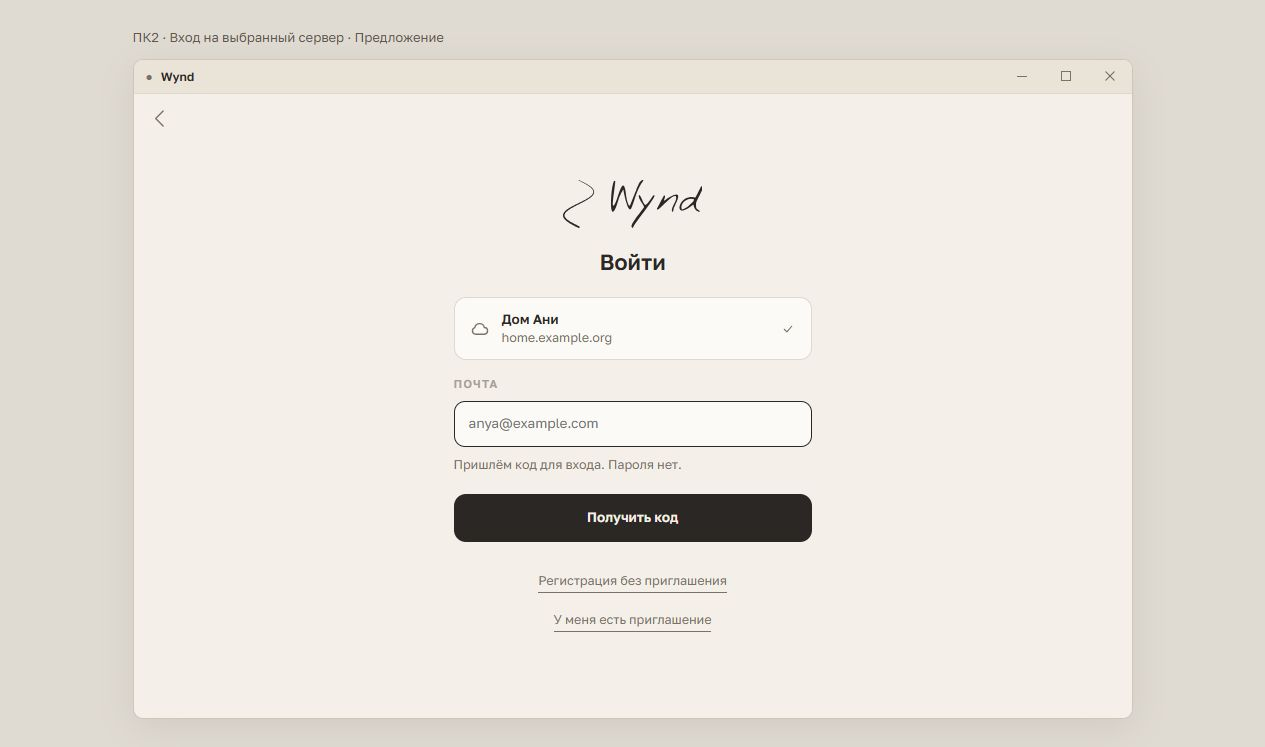
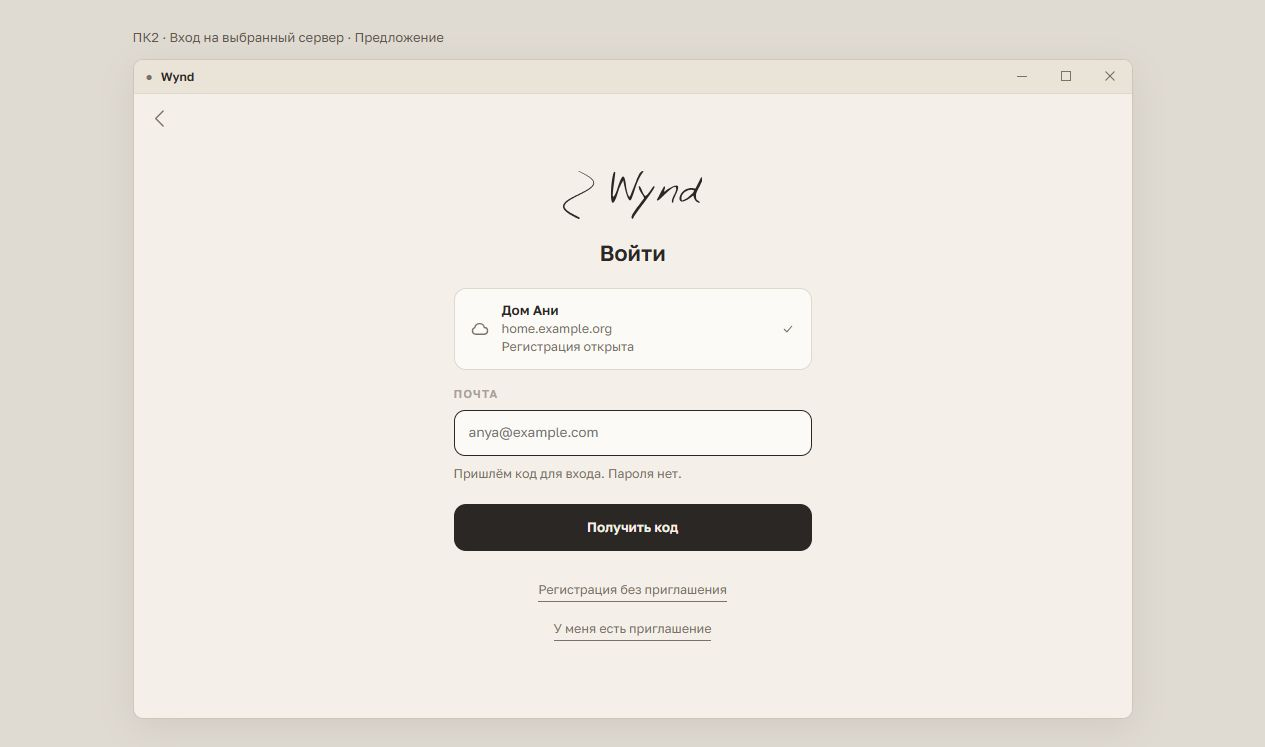
План 55, ПК2: режим регистрации в карточке и условные ссылки входа.

diff --git a/docs/visual/desktop-login.html b/docs/visual/desktop-login.html
@@ -4,7 +4,7 @@
 <meta charset="utf-8">
 <meta name="viewport" content="width=device-width,initial-scale=1">
 <title>Wynd для компьютера — ПК2, вход</title>
-<!-- Предложение по плану 55. Настоящие компоненты Wynd UI, отрендеренные Vite/Svelte. Исходник: ../plans/55-desktop-login-frame.svelte.txt. -->
+<!-- Предложение по плану 55. Настоящие компоненты Wynd UI. Исходник: ../plans/55-desktop-login-frame.svelte.txt. Показана открытая регистрация. -->
 <style>
 :root { --paper: #f4f0e9; --card: #fcfaf6; --ink: #2b2724; --muted: #7a7269; --faint: #a8a096; --line: #dfd8cd; --terracotta: #af5839; --teal: #357077; --olive: #58673a; --ochre: #70571b; --plum: #7a4265; --indigo: #3c4d83; --coffee: #62452f; --slate: #3d494f; --ui: 'Golos Text', -apple-system, BlinkMacSystemFont, 'Segoe UI', Roboto, 'Helvetica Neue', Arial,
 		sans-serif; --app-max-width: 480px; --app-wide-max-width: 820px; --app-gutter: #e0dbd2; --app-gutter-dark: #161412; --mark-w: 46px; --mark-h: 69px; --empty-ink: #d6cec2; --tint: #eae4da; --dlg-max-width: 436px; }
@@ -724,5 +724,6 @@ h1.s-d5Zigoma649a { text-align: center; font-size: 22px; font-weight: 600; line-
 .s-d5Zigoma649a { }
 </style>
 </head><body>
-<main class="mockup-page s-d5Zigoma649a"><div class="frame-caption s-d5Zigoma649a">ПК2 · Вход на выбранный сервер · Предложение</div> <section class="desktop-window s-d5Zigoma649a" aria-label="Вход на выбранный сервер"><header class="ins-tb s-YNExqrO1C3mx"><span class="ins-tb-dot s-YNExqrO1C3mx" aria-hidden="true">●</span> <b class="s-YNExqrO1C3mx">Wynd</b> <span class="ins-tb-btns s-YNExqrO1C3mx"><button type="button" aria-label="Свернуть" class="s-YNExqrO1C3mx"><svg viewBox="0 0 10 10" aria-hidden="true" class="s-YNExqrO1C3mx"><path d="M0 5.5h10" class="s-YNExqrO1C3mx"></path></svg></button> <button type="button" class="s-YNExqrO1C3mx" aria-label="Развернуть"><svg viewBox="0 0 10 10" aria-hidden="true" class="s-YNExqrO1C3mx"><rect x=".5" y=".5" width="9" height="9" class="s-YNExqrO1C3mx"></rect></svg><!----></button> <button type="button" class="ins-tb-close s-YNExqrO1C3mx" aria-label="Закрыть"><svg viewBox="0 0 10 10" aria-hidden="true" class="s-YNExqrO1C3mx"><path d="M.5.5l9 9M9.5.5l-9 9" class="s-YNExqrO1C3mx"></path></svg></button></span></header><!----> <div class="desktop-content s-d5Zigoma649a"><div class="desktop-back s-d5Zigoma649a"><button type="button" class="ib " aria-label="Назад к адресу сервера" style=""><svg viewBox="0 0 24 24" aria-hidden="true" class="ic " style=""><use href="#i-back"></use></svg><!----></button><!----></div> <div class="welcome s-d5Zigoma649a"><div class="welcome-mark s-d5Zigoma649a"><svg viewBox="-20.17 -30.299 178.744 61.474" role="img" aria-label="Wynd" style="display:block" width="139.5665159254319" height="48"><g fill="currentColor"><path d="M -0.137 -29.724 L 0.614 -29.344 L 1.364 -28.964 L 2.111 -28.584 L 2.855 -28.205 L 3.594 -27.825 L 4.326 -27.446 L 5.052 -27.066 L 5.770 -26.687 L 6.478 -26.308 L 7.175 -25.930 L 7.861 -25.551 L 8.534 -25.173 L 9.193 -24.795 L 9.838 -24.417 L 10.466 -24.039 L 11.078 -23.662 L 11.671 -23.285 L 12.246 -22.909 L 12.801 -22.533 L 13.335 -22.157 L 13.848 -21.783 L 14.338 -21.409 L 14.805 -21.036 L 15.248 -20.663 L 15.666 -20.292 L 16.059 -19.923 L 16.425 -19.554 L 16.765 -19.188 L 17.078 -18.823 L 17.363 -18.461 L 17.620 -18.101 L 17.848 -17.744 L 18.048 -17.390 L 18.220 -17.039 L 18.364 -16.692 L 18.480 -16.348 L 18.568 -16.007 L 18.629 -15.669 L 18.663 -15.334 L 18.671 -15.000 L 18.652 -14.667 L 18.607 -14.334 L 18.536 -14.000 L 18.438 -13.665 L 18.313 -13.328 L 18.160 -12.989 L 17.981 -12.647 L 17.773 -12.303 L 17.538 -11.956 L 17.275 -11.606 L 16.985 -11.255 L 16.668 -10.901 L 16.323 -10.546 L 15.953 -10.189 L 15.556 -9.831 L 15.134 -9.471 L 14.688 -9.111 L 14.218 -8.749 L 13.724 -8.386 L 13.209 -8.023 L 12.671 -7.659 L 12.113 -7.294 L 11.536 -6.929 L 10.939 -6.563 L 10.324 -6.197 L 9.693 -5.831 L 9.046 -5.464 L 8.383 -5.097 L 7.707 -4.729 L 7.018 -4.362 L 6.317 -3.994 L 5.606 -3.625 L 4.885 -3.257 L 4.156 -2.888 L 3.419 -2.519 L 2.676 -2.150 L 1.928 -1.781 L 1.177 -1.411 L 0.422 -1.041 L -0.334 -0.671 L -1.090 -0.301 L -1.846 0.069 L -2.600 0.440 L -3.351 0.811 L -4.097 1.182 L -4.839 1.553 L -5.574 1.925 L -6.301 2.297 L -7.020 2.669 L -7.729 3.041 L -8.428 3.414 L -9.114 3.788 L -9.788 4.161 L -10.449 4.536 L -11.094 4.911 L -11.724 5.286 L -12.338 5.663 L -12.934 6.040 L -13.512 6.418 L -14.071 6.797 L -14.611 7.177 L -15.129 7.559 L -15.627 7.942 L -16.103 8.327 L -16.556 8.714 L -16.986 9.103 L -17.393 9.495 L -17.775 9.891 L -18.132 10.289 L -18.464 10.692 L -18.769 11.099 L -19.047 11.511 L -19.297 11.929 L -19.518 12.352 L -19.709 12.781 L -19.868 13.216 L -19.995 13.656 L -20.088 14.101 L -20.147 14.549 L -20.170 15.000 L -20.158 15.452 L -20.110 15.903 L -20.027 16.352 L -19.910 16.798 L -19.760 17.239 L -19.578 17.676 L -19.365 18.108 L -19.122 18.535 L -18.850 18.957 L -18.551 19.375 L -18.225 19.789 L -17.873 20.199 L -17.495 20.605 L -17.093 21.009 L -16.667 21.409 L -16.217 21.808 L -15.745 22.204 L -15.250 22.599 L -14.734 22.992 L -14.198 23.384 L -13.642 23.774 L -13.067 24.163 L -12.474 24.552 L -11.863 24.939 L -11.236 25.326 L -10.593 25.712 L -9.936 26.097 L -9.265 26.482 L -8.581 26.866 L -7.886 27.250 L -7.180 27.633 L -6.465 28.016 L -5.741 28.398 L -5.009 28.781 L -4.272 29.162 L -3.529 29.544 L -2.783 29.925 L -2.033 30.306 L -1.282 30.686 L -0.530 31.066 A 1.191 1.191 0 0 0 0.530 28.934 L -0.226 28.564 L -0.980 28.194 L -1.731 27.825 L -2.478 27.456 L -3.220 27.088 L -3.955 26.719 L -4.683 26.352 L -5.402 25.984 L -6.111 25.617 L -6.809 25.250 L -7.495 24.884 L -8.168 24.518 L -8.827 24.153 L -9.471 23.788 L -10.098 23.424 L -10.708 23.061 L -11.300 22.698 L -11.872 22.337 L -12.424 21.976 L -12.955 21.616 L -13.464 21.258 L -13.949 20.901 L -14.412 20.546 L -14.849 20.192 L -15.262 19.841 L -15.648 19.491 L -16.009 19.145 L -16.342 18.801 L -16.648 18.461 L -16.926 18.125 L -17.176 17.793 L -17.399 17.465 L -17.594 17.142 L -17.761 16.824 L -17.902 16.511 L -18.017 16.202 L -18.107 15.898 L -18.172 15.597 L -18.213 15.298 L -18.230 15.000 L -18.223 14.701 L -18.193 14.399 L -18.139 14.094 L -18.059 13.784 L -17.954 13.469 L -17.821 13.148 L -17.661 12.821 L -17.474 12.489 L -17.258 12.151 L -17.013 11.808 L -16.740 11.461 L -16.440 11.109 L -16.111 10.755 L -15.755 10.397 L -15.372 10.036 L -14.963 9.673 L -14.529 9.308 L -14.070 8.941 L -13.587 8.573 L -13.082 8.203 L -12.554 7.832 L -12.005 7.460 L -11.435 7.087 L -10.847 6.714 L -10.240 6.339 L -9.615 5.964 L -8.975 5.589 L -8.319 5.212 L -7.649 4.836 L -6.966 4.459 L -6.271 4.081 L -5.565 3.703 L -4.850 3.325 L -4.126 2.947 L -3.394 2.568 L -2.656 2.189 L -1.914 1.810 L -1.167 1.431 L -0.417 1.051 L 0.334 0.671 L 1.085 0.291 L 1.836 -0.089 L 2.585 -0.469 L 3.331 -0.850 L 4.072 -1.231 L 4.809 -1.612 L 5.538 -1.993 L 6.260 -2.375 L 6.973 -2.756 L 7.677 -3.138 L 8.369 -3.521 L 9.050 -3.903 L 9.717 -4.286 L 10.371 -4.669 L 11.009 -5.053 L 11.632 -5.437 L 12.238 -5.821 L 12.826 -6.206 L 13.395 -6.591 L 13.944 -6.977 L 14.474 -7.364 L 14.982 -7.751 L 15.468 -8.139 L 15.932 -8.529 L 16.372 -8.919 L 16.789 -9.311 L 17.181 -9.704 L 17.547 -10.099 L 17.888 -10.495 L 18.202 -10.894 L 18.488 -11.294 L 18.747 -11.697 L 18.978 -12.103 L 19.179 -12.511 L 19.349 -12.922 L 19.489 -13.335 L 19.598 -13.750 L 19.674 -14.166 L 19.718 -14.583 L 19.729 -15.000 L 19.707 -15.416 L 19.653 -15.831 L 19.566 -16.243 L 19.447 -16.652 L 19.298 -17.058 L 19.119 -17.461 L 18.910 -17.860 L 18.672 -18.256 L 18.407 -18.649 L 18.114 -19.039 L 17.795 -19.427 L 17.449 -19.812 L 17.078 -20.196 L 16.682 -20.577 L 16.262 -20.958 L 15.818 -21.337 L 15.351 -21.714 L 14.861 -22.091 L 14.350 -22.467 L 13.818 -22.843 L 13.265 -23.217 L 12.693 -23.591 L 12.102 -23.965 L 11.493 -24.338 L 10.868 -24.711 L 10.226 -25.083 L 9.570 -25.455 L 8.899 -25.827 L 8.216 -26.199 L 7.520 -26.570 L 6.813 -26.942 L 6.097 -27.313 L 5.371 -27.684 L 4.638 -28.054 L 3.898 -28.425 L 3.152 -28.795 L 2.402 -29.166 L 1.649 -29.536 L 0.894 -29.906 L 0.137 -30.276 A 0.309 0.309 0 0 0 -0.137 -29.724 Z"></path><path d="M42.69 9.64Q42.02 8.66 41.68 6.39Q41.35 4.13 41.27 1.14Q41.19 -1.85 41.35 -5.35Q41.5 -8.86 41.81 -12.31Q42.12 -15.76 42.61 -18.95Q43.1 -22.15 43.67 -24.54Q44.23 -26.94 44.85 -28.28Q45.47 -29.62 46.14 -29.41Q46.24 -29.31 46.47 -29.1Q46.71 -28.9 46.76 -28.79Q46.81 -28.23 46.65 -26.65Q46.5 -25.08 46.22 -22.89Q45.93 -20.7 45.6 -18.08Q45.26 -15.45 44.9 -12.74Q44.54 -10.04 44.23 -7.49Q43.92 -4.94 43.74 -2.9Q43.56 -0.87 43.56 0.47Q43.56 1.81 43.82 2.07L44.39 2.69Q45.16 2.32 45.98 0.8Q46.81 -0.71 47.66 -2.9Q48.51 -5.09 49.41 -7.72Q50.31 -10.35 51.21 -12.9Q52.12 -15.45 52.99 -17.72Q53.87 -19.98 54.74 -21.43Q55.62 -22.87 56.44 -23.25Q57.27 -23.64 58.01 -22.48Q58.76 -21.32 59.46 -18.39Q60.15 -15.45 60.72 -10.19Q60.72 -9.94 60.98 -8.57Q61.23 -7.21 61.62 -5.43Q62.01 -3.65 62.52 -1.82Q63.04 0.01 63.6 1.22Q64.17 2.43 64.79 2.66Q65.41 2.89 65.97 1.45Q66.13 1.04 66.67 -0.3Q67.21 -1.64 67.93 -3.45Q68.65 -5.25 69.45 -7.26Q70.25 -9.27 70.97 -11.07Q71.69 -12.87 72.23 -14.21Q72.77 -15.55 72.98 -16.02Q73.19 -16.53 73.65 -17.87Q74.11 -19.21 74.81 -20.88Q75.51 -22.56 76.38 -24.36Q77.26 -26.17 78.24 -27.58Q79.21 -29 80.27 -29.77Q81.33 -30.54 82.41 -30.18Q82.51 -30.18 82.72 -29.95Q82.92 -29.72 82.92 -29.62Q79.73 -25.5 77.64 -21.37Q75.56 -17.25 73.99 -12.95Q72.41 -8.65 71 -4.19Q69.58 0.26 67.73 4.95Q66.95 6.96 66.1 7.27Q65.25 7.58 64.43 6.68Q63.6 5.78 62.81 3.97Q62.01 2.17 61.29 -0.07Q60.56 -2.31 59.95 -4.68Q59.33 -7.05 58.86 -9.09Q58.4 -11.12 58.12 -12.54Q57.83 -13.96 57.78 -14.21Q57.68 -14.63 57.6 -15.19Q57.53 -15.76 57.42 -16.33Q57.32 -16.94 57.22 -17.72H56.65Q56.6 -17.72 56.03 -16.66Q55.46 -15.6 54.72 -14.14Q53.97 -12.67 53.2 -11.07Q52.42 -9.47 51.96 -8.44Q51.7 -7.93 51.16 -6.05Q50.62 -4.17 49.85 -1.75Q49.08 0.68 48.17 3.2Q47.27 5.72 46.32 7.55Q45.37 9.38 44.41 10.1Q43.46 10.83 42.69 9.64Z M67.73 29.99Q67.26 29.27 67.75 27.75Q68.24 26.23 69.14 24.61Q70.04 22.98 71 21.57Q71.95 20.15 72.41 19.53Q72.83 18.97 73.68 17.83Q74.53 16.7 75.61 15.26Q76.69 13.81 77.9 12.22Q79.11 10.62 80.19 9.2Q81.28 7.79 82.15 6.65Q83.03 5.52 83.44 4.95Q83.85 4.49 83.44 3.51Q83.03 2.53 82.18 1.22Q81.33 -0.1 80.27 -1.67Q79.21 -3.24 78.36 -4.86Q77.51 -6.49 77.08 -8.08Q76.64 -9.68 77.05 -11.07Q77.62 -11.48 78.29 -10.58Q78.96 -9.68 79.7 -8.11Q80.45 -6.54 81.28 -4.66Q82.1 -2.78 82.87 -1.26Q83.65 0.26 84.39 1.14Q85.14 2.02 85.81 1.5Q87.15 0.52 88.44 -1Q89.72 -2.52 90.91 -4.17Q92.09 -5.82 93.15 -7.39Q94.21 -8.96 95.13 -10.14Q95.49 -10.61 95.83 -10.79Q96.16 -10.97 96.89 -10.71Q97.45 -10.5 96.68 -8.91Q95.91 -7.31 94.26 -4.78Q92.61 -2.26 90.32 0.96Q88.02 4.18 85.47 7.66Q82.92 11.13 80.37 14.59Q77.82 18.04 75.69 21Q73.55 23.96 72.03 26.2Q70.51 28.44 70.04 29.48Q69.84 29.94 69.61 30.4Q69.37 30.87 68.96 31.18Q68.86 31.12 68.68 30.97Q68.5 30.81 68.32 30.63Q68.14 30.45 67.96 30.27Q67.78 30.09 67.73 29.99Z M119.3 9.64Q119.14 7.94 119.58 6.27Q120.02 4.59 120.76 2.97Q121.51 1.35 122.36 -0.28Q123.21 -1.9 123.83 -3.47Q124.45 -5.04 124.71 -6.56Q124.96 -8.08 124.5 -9.58Q123.21 -10.04 121.54 -9.37Q119.86 -8.7 118.01 -7.34Q116.15 -5.97 114.17 -4.14Q112.19 -2.31 110.31 -0.43Q108.43 1.45 106.73 3.15Q105.03 4.85 103.66 5.96Q102.3 7.06 101.37 7.35Q100.44 7.63 100.13 6.7Q100.08 6.65 100.72 5.39Q101.37 4.13 102.32 2.22Q103.27 0.32 104.43 -1.9Q105.59 -4.12 106.62 -6.05Q107.65 -7.98 108.43 -9.32Q109.2 -10.66 109.4 -10.76Q110.49 -10.04 110.51 -9.19Q110.54 -8.34 110.23 -7.44Q109.92 -6.54 109.53 -5.61Q109.15 -4.68 109.4 -3.75Q110.23 -4.32 111.7 -5.33Q113.17 -6.33 114.89 -7.41Q116.62 -8.49 118.5 -9.52Q120.38 -10.56 122.03 -11.15Q123.68 -11.74 124.99 -11.79Q126.3 -11.84 126.92 -11.02Q127.54 -10.19 127.31 -8.31Q127.08 -6.43 125.68 -3.19Q125.53 -2.83 124.94 -1.46Q124.35 -0.1 123.65 1.47Q122.95 3.05 122.36 4.41Q121.77 5.78 121.61 6.14Q121.56 6.34 121.49 6.88Q121.41 7.43 121.31 8.07Q121.2 8.71 121 9.31Q120.79 9.9 120.48 10.21Q120.17 10.52 119.76 10.13Q119.35 9.74 119.3 9.64Z M151.03 9.02Q149.07 7.68 148.2 5.7Q147.32 3.72 146.91 1.45H146.34Q142.17 4.85 139.11 6.55Q136.04 8.25 133.93 8.64Q131.82 9.02 130.63 8.3Q129.45 7.58 129.11 6.21Q128.78 4.85 129.24 2.99Q129.7 1.14 130.84 -0.74Q131.97 -2.62 133.77 -4.32Q135.58 -6.02 137.92 -7.1Q140.26 -8.19 143.12 -8.47Q145.98 -8.75 149.28 -7.82L149.85 -8.44L156.8 -22.4Q158.19 -22.2 158.45 -21.17Q158.71 -20.14 158.43 -18.9Q158.14 -17.66 157.6 -16.51Q157.06 -15.35 156.8 -14.83Q156.65 -14.52 156.21 -13.65Q155.77 -12.77 155.18 -11.56Q154.59 -10.35 153.92 -9.01Q153.25 -7.67 152.66 -6.46Q152.06 -5.25 151.6 -4.35Q151.14 -3.45 151.03 -3.19Q150.11 -1.28 150.18 0.86Q150.26 2.99 150.41 4.95Q150.62 5.88 151.24 6.47Q151.86 7.06 152.55 7.55Q153.25 8.04 153.94 8.51Q154.64 8.97 155.1 9.64Q154.9 10.31 154.28 10.34Q153.66 10.36 152.99 10.1Q152.32 9.85 151.75 9.49Q151.19 9.13 151.03 9.02ZM131.82 6.7Q132.02 7.58 133.39 7.22Q134.75 6.86 136.61 5.7Q138.46 4.54 140.55 2.89Q142.63 1.24 144.31 -0.41Q145.98 -2.05 146.94 -3.45Q147.89 -4.84 147.53 -5.51Q145.93 -6.38 143.97 -6.38Q142.02 -6.38 140.08 -5.69Q138.15 -4.99 136.38 -3.73Q134.6 -2.47 133.39 -0.82Q132.18 0.83 131.69 2.76Q131.2 4.69 131.82 6.7Z"></path></g></svg><!----></div> <h1 class="s-d5Zigoma649a">Войти</h1> <!----><!----><div class="row2 server-card" style="margin: 14px 16px 0px; width: auto; border: 1px solid var(--line); background: var(--card); border-radius: 12px; padding: 12px 14px;"><!----><!----><svg viewBox="0 0 24 24" aria-hidden="true" class="ic " style=""><use href="#i-cloud"></use></svg><!----> <div class="g"><div style="font-weight:600">Дом Ани<!----></div> <div class="sub">home.example.org</div><!----></div> <!----><span class="st ok"><svg viewBox="0 0 24 24" aria-hidden="true" class="ic " style=""><use href="#i-check"></use></svg><!----></span><!----><!----></div><!----> <div class="lab  " style="margin-top: 16px;"><!---->Почта<!----></div><!----> <input class="fld  act" type="email" autocomplete="email" aria-label="Почта" placeholder="anya@example.com" style=""><!----> <div class="hint " style="">Пришлём код для входа. Пароля нет.<!----></div><!----> <button type="button" class="btn  " style=""><!---->Получить код<!----></button><!----> <div class="hint  ctr" style="margin-top: 30px;"><!----><button type="button" class="under " style=""><!---->Регистрация без приглашения<!----></button><!----></div><!----> <div class="hint  ctr" style="margin-top: 18px;"><!----><button type="button" class="under " style=""><!---->У меня есть приглашение<!----></button><!----></div><!----></div></div></section></main>
+<main class="mockup-page s-d5Zigoma649a"><div class="frame-caption s-d5Zigoma649a">ПК2 · Вход на выбранный сервер · Предложение</div> <section class="desktop-window s-d5Zigoma649a" aria-label="Вход на выбранный сервер"><header class="ins-tb s-YNExqrO1C3mx"><span class="ins-tb-dot s-YNExqrO1C3mx" aria-hidden="true">●</span> <b class="s-YNExqrO1C3mx">Wynd</b> <span class="ins-tb-btns s-YNExqrO1C3mx"><button type="button" aria-label="Свернуть" class="s-YNExqrO1C3mx"><svg viewBox="0 0 10 10" aria-hidden="true" class="s-YNExqrO1C3mx"><path d="M0 5.5h10" class="s-YNExqrO1C3mx"></path></svg></button> <button type="button" class="s-YNExqrO1C3mx" aria-label="Развернуть"><svg viewBox="0 0 10 10" aria-hidden="true" class="s-YNExqrO1C3mx"><rect x=".5" y=".5" width="9" height="9" class="s-YNExqrO1C3mx"></rect></svg><!----></button> <button type="button" class="ins-tb-close s-YNExqrO1C3mx" aria-label="Закрыть"><svg viewBox="0 0 10 10" aria-hidden="true" class="s-YNExqrO1C3mx"><path d="M.5.5l9 9M9.5.5l-9 9" class="s-YNExqrO1C3mx"></path></svg></button></span></header><!----> <div class="desktop-content s-d5Zigoma649a"><div class="desktop-back s-d5Zigoma649a"><button type="button" class="ib " aria-label="Назад к адресу сервера" style=""><svg viewBox="0 0 24 24" aria-hidden="true" class="ic " style=""><use href="#i-back"></use></svg><!----></button><!----></div> <div class="welcome s-d5Zigoma649a"><div class="welcome-mark s-d5Zigoma649a"><svg viewBox="-20.17 -30.299 178.744 61.474" role="img" aria-label="Wynd" style="display:block" width="139.5665159254319" height="48"><g fill="currentColor"><path d="M -0.137 -29.724 L 0.614 -29.344 L 1.364 -28.964 L 2.111 -28.584 L 2.855 -28.205 L 3.594 -27.825 L 4.326 -27.446 L 5.052 -27.066 L 5.770 -26.687 L 6.478 -26.308 L 7.175 -25.930 L 7.861 -25.551 L 8.534 -25.173 L 9.193 -24.795 L 9.838 -24.417 L 10.466 -24.039 L 11.078 -23.662 L 11.671 -23.285 L 12.246 -22.909 L 12.801 -22.533 L 13.335 -22.157 L 13.848 -21.783 L 14.338 -21.409 L 14.805 -21.036 L 15.248 -20.663 L 15.666 -20.292 L 16.059 -19.923 L 16.425 -19.554 L 16.765 -19.188 L 17.078 -18.823 L 17.363 -18.461 L 17.620 -18.101 L 17.848 -17.744 L 18.048 -17.390 L 18.220 -17.039 L 18.364 -16.692 L 18.480 -16.348 L 18.568 -16.007 L 18.629 -15.669 L 18.663 -15.334 L 18.671 -15.000 L 18.652 -14.667 L 18.607 -14.334 L 18.536 -14.000 L 18.438 -13.665 L 18.313 -13.328 L 18.160 -12.989 L 17.981 -12.647 L 17.773 -12.303 L 17.538 -11.956 L 17.275 -11.606 L 16.985 -11.255 L 16.668 -10.901 L 16.323 -10.546 L 15.953 -10.189 L 15.556 -9.831 L 15.134 -9.471 L 14.688 -9.111 L 14.218 -8.749 L 13.724 -8.386 L 13.209 -8.023 L 12.671 -7.659 L 12.113 -7.294 L 11.536 -6.929 L 10.939 -6.563 L 10.324 -6.197 L 9.693 -5.831 L 9.046 -5.464 L 8.383 -5.097 L 7.707 -4.729 L 7.018 -4.362 L 6.317 -3.994 L 5.606 -3.625 L 4.885 -3.257 L 4.156 -2.888 L 3.419 -2.519 L 2.676 -2.150 L 1.928 -1.781 L 1.177 -1.411 L 0.422 -1.041 L -0.334 -0.671 L -1.090 -0.301 L -1.846 0.069 L -2.600 0.440 L -3.351 0.811 L -4.097 1.182 L -4.839 1.553 L -5.574 1.925 L -6.301 2.297 L -7.020 2.669 L -7.729 3.041 L -8.428 3.414 L -9.114 3.788 L -9.788 4.161 L -10.449 4.536 L -11.094 4.911 L -11.724 5.286 L -12.338 5.663 L -12.934 6.040 L -13.512 6.418 L -14.071 6.797 L -14.611 7.177 L -15.129 7.559 L -15.627 7.942 L -16.103 8.327 L -16.556 8.714 L -16.986 9.103 L -17.393 9.495 L -17.775 9.891 L -18.132 10.289 L -18.464 10.692 L -18.769 11.099 L -19.047 11.511 L -19.297 11.929 L -19.518 12.352 L -19.709 12.781 L -19.868 13.216 L -19.995 13.656 L -20.088 14.101 L -20.147 14.549 L -20.170 15.000 L -20.158 15.452 L -20.110 15.903 L -20.027 16.352 L -19.910 16.798 L -19.760 17.239 L -19.578 17.676 L -19.365 18.108 L -19.122 18.535 L -18.850 18.957 L -18.551 19.375 L -18.225 19.789 L -17.873 20.199 L -17.495 20.605 L -17.093 21.009 L -16.667 21.409 L -16.217 21.808 L -15.745 22.204 L -15.250 22.599 L -14.734 22.992 L -14.198 23.384 L -13.642 23.774 L -13.067 24.163 L -12.474 24.552 L -11.863 24.939 L -11.236 25.326 L -10.593 25.712 L -9.936 26.097 L -9.265 26.482 L -8.581 26.866 L -7.886 27.250 L -7.180 27.633 L -6.465 28.016 L -5.741 28.398 L -5.009 28.781 L -4.272 29.162 L -3.529 29.544 L -2.783 29.925 L -2.033 30.306 L -1.282 30.686 L -0.530 31.066 A 1.191 1.191 0 0 0 0.530 28.934 L -0.226 28.564 L -0.980 28.194 L -1.731 27.825 L -2.478 27.456 L -3.220 27.088 L -3.955 26.719 L -4.683 26.352 L -5.402 25.984 L -6.111 25.617 L -6.809 25.250 L -7.495 24.884 L -8.168 24.518 L -8.827 24.153 L -9.471 23.788 L -10.098 23.424 L -10.708 23.061 L -11.300 22.698 L -11.872 22.337 L -12.424 21.976 L -12.955 21.616 L -13.464 21.258 L -13.949 20.901 L -14.412 20.546 L -14.849 20.192 L -15.262 19.841 L -15.648 19.491 L -16.009 19.145 L -16.342 18.801 L -16.648 18.461 L -16.926 18.125 L -17.176 17.793 L -17.399 17.465 L -17.594 17.142 L -17.761 16.824 L -17.902 16.511 L -18.017 16.202 L -18.107 15.898 L -18.172 15.597 L -18.213 15.298 L -18.230 15.000 L -18.223 14.701 L -18.193 14.399 L -18.139 14.094 L -18.059 13.784 L -17.954 13.469 L -17.821 13.148 L -17.661 12.821 L -17.474 12.489 L -17.258 12.151 L -17.013 11.808 L -16.740 11.461 L -16.440 11.109 L -16.111 10.755 L -15.755 10.397 L -15.372 10.036 L -14.963 9.673 L -14.529 9.308 L -14.070 8.941 L -13.587 8.573 L -13.082 8.203 L -12.554 7.832 L -12.005 7.460 L -11.435 7.087 L -10.847 6.714 L -10.240 6.339 L -9.615 5.964 L -8.975 5.589 L -8.319 5.212 L -7.649 4.836 L -6.966 4.459 L -6.271 4.081 L -5.565 3.703 L -4.850 3.325 L -4.126 2.947 L -3.394 2.568 L -2.656 2.189 L -1.914 1.810 L -1.167 1.431 L -0.417 1.051 L 0.334 0.671 L 1.085 0.291 L 1.836 -0.089 L 2.585 -0.469 L 3.331 -0.850 L 4.072 -1.231 L 4.809 -1.612 L 5.538 -1.993 L 6.260 -2.375 L 6.973 -2.756 L 7.677 -3.138 L 8.369 -3.521 L 9.050 -3.903 L 9.717 -4.286 L 10.371 -4.669 L 11.009 -5.053 L 11.632 -5.437 L 12.238 -5.821 L 12.826 -6.206 L 13.395 -6.591 L 13.944 -6.977 L 14.474 -7.364 L 14.982 -7.751 L 15.468 -8.139 L 15.932 -8.529 L 16.372 -8.919 L 16.789 -9.311 L 17.181 -9.704 L 17.547 -10.099 L 17.888 -10.495 L 18.202 -10.894 L 18.488 -11.294 L 18.747 -11.697 L 18.978 -12.103 L 19.179 -12.511 L 19.349 -12.922 L 19.489 -13.335 L 19.598 -13.750 L 19.674 -14.166 L 19.718 -14.583 L 19.729 -15.000 L 19.707 -15.416 L 19.653 -15.831 L 19.566 -16.243 L 19.447 -16.652 L 19.298 -17.058 L 19.119 -17.461 L 18.910 -17.860 L 18.672 -18.256 L 18.407 -18.649 L 18.114 -19.039 L 17.795 -19.427 L 17.449 -19.812 L 17.078 -20.196 L 16.682 -20.577 L 16.262 -20.958 L 15.818 -21.337 L 15.351 -21.714 L 14.861 -22.091 L 14.350 -22.467 L 13.818 -22.843 L 13.265 -23.217 L 12.693 -23.591 L 12.102 -23.965 L 11.493 -24.338 L 10.868 -24.711 L 10.226 -25.083 L 9.570 -25.455 L 8.899 -25.827 L 8.216 -26.199 L 7.520 -26.570 L 6.813 -26.942 L 6.097 -27.313 L 5.371 -27.684 L 4.638 -28.054 L 3.898 -28.425 L 3.152 -28.795 L 2.402 -29.166 L 1.649 -29.536 L 0.894 -29.906 L 0.137 -30.276 A 0.309 0.309 0 0 0 -0.137 -29.724 Z"></path><path d="M42.69 9.64Q42.02 8.66 41.68 6.39Q41.35 4.13 41.27 1.14Q41.19 -1.85 41.35 -5.35Q41.5 -8.86 41.81 -12.31Q42.12 -15.76 42.61 -18.95Q43.1 -22.15 43.67 -24.54Q44.23 -26.94 44.85 -28.28Q45.47 -29.62 46.14 -29.41Q46.24 -29.31 46.47 -29.1Q46.71 -28.9 46.76 -28.79Q46.81 -28.23 46.65 -26.65Q46.5 -25.08 46.22 -22.89Q45.93 -20.7 45.6 -18.08Q45.26 -15.45 44.9 -12.74Q44.54 -10.04 44.23 -7.49Q43.92 -4.94 43.74 -2.9Q43.56 -0.87 43.56 0.47Q43.56 1.81 43.82 2.07L44.39 2.69Q45.16 2.32 45.98 0.8Q46.81 -0.71 47.66 -2.9Q48.51 -5.09 49.41 -7.72Q50.31 -10.35 51.21 -12.9Q52.12 -15.45 52.99 -17.72Q53.87 -19.98 54.74 -21.43Q55.62 -22.87 56.44 -23.25Q57.27 -23.64 58.01 -22.48Q58.76 -21.32 59.46 -18.39Q60.15 -15.45 60.72 -10.19Q60.72 -9.94 60.98 -8.57Q61.23 -7.21 61.62 -5.43Q62.01 -3.65 62.52 -1.82Q63.04 0.01 63.6 1.22Q64.17 2.43 64.79 2.66Q65.41 2.89 65.97 1.45Q66.13 1.04 66.67 -0.3Q67.21 -1.64 67.93 -3.45Q68.65 -5.25 69.45 -7.26Q70.25 -9.27 70.97 -11.07Q71.69 -12.87 72.23 -14.21Q72.77 -15.55 72.98 -16.02Q73.19 -16.53 73.65 -17.87Q74.11 -19.21 74.81 -20.88Q75.51 -22.56 76.38 -24.36Q77.26 -26.17 78.24 -27.58Q79.21 -29 80.27 -29.77Q81.33 -30.54 82.41 -30.18Q82.51 -30.18 82.72 -29.95Q82.92 -29.72 82.92 -29.62Q79.73 -25.5 77.64 -21.37Q75.56 -17.25 73.99 -12.95Q72.41 -8.65 71 -4.19Q69.58 0.26 67.73 4.95Q66.95 6.96 66.1 7.27Q65.25 7.58 64.43 6.68Q63.6 5.78 62.81 3.97Q62.01 2.17 61.29 -0.07Q60.56 -2.31 59.95 -4.68Q59.33 -7.05 58.86 -9.09Q58.4 -11.12 58.12 -12.54Q57.83 -13.96 57.78 -14.21Q57.68 -14.63 57.6 -15.19Q57.53 -15.76 57.42 -16.33Q57.32 -16.94 57.22 -17.72H56.65Q56.6 -17.72 56.03 -16.66Q55.46 -15.6 54.72 -14.14Q53.97 -12.67 53.2 -11.07Q52.42 -9.47 51.96 -8.44Q51.7 -7.93 51.16 -6.05Q50.62 -4.17 49.85 -1.75Q49.08 0.68 48.17 3.2Q47.27 5.72 46.32 7.55Q45.37 9.38 44.41 10.1Q43.46 10.83 42.69 9.64Z M67.73 29.99Q67.26 29.27 67.75 27.75Q68.24 26.23 69.14 24.61Q70.04 22.98 71 21.57Q71.95 20.15 72.41 19.53Q72.83 18.97 73.68 17.83Q74.53 16.7 75.61 15.26Q76.69 13.81 77.9 12.22Q79.11 10.62 80.19 9.2Q81.28 7.79 82.15 6.65Q83.03 5.52 83.44 4.95Q83.85 4.49 83.44 3.51Q83.03 2.53 82.18 1.22Q81.33 -0.1 80.27 -1.67Q79.21 -3.24 78.36 -4.86Q77.51 -6.49 77.08 -8.08Q76.64 -9.68 77.05 -11.07Q77.62 -11.48 78.29 -10.58Q78.96 -9.68 79.7 -8.11Q80.45 -6.54 81.28 -4.66Q82.1 -2.78 82.87 -1.26Q83.65 0.26 84.39 1.14Q85.14 2.02 85.81 1.5Q87.15 0.52 88.44 -1Q89.72 -2.52 90.91 -4.17Q92.09 -5.82 93.15 -7.39Q94.21 -8.96 95.13 -10.14Q95.49 -10.61 95.83 -10.79Q96.16 -10.97 96.89 -10.71Q97.45 -10.5 96.68 -8.91Q95.91 -7.31 94.26 -4.78Q92.61 -2.26 90.32 0.96Q88.02 4.18 85.47 7.66Q82.92 11.13 80.37 14.59Q77.82 18.04 75.69 21Q73.55 23.96 72.03 26.2Q70.51 28.44 70.04 29.48Q69.84 29.94 69.61 30.4Q69.37 30.87 68.96 31.18Q68.86 31.12 68.68 30.97Q68.5 30.81 68.32 30.63Q68.14 30.45 67.96 30.27Q67.78 30.09 67.73 29.99Z M119.3 9.64Q119.14 7.94 119.58 6.27Q120.02 4.59 120.76 2.97Q121.51 1.35 122.36 -0.28Q123.21 -1.9 123.83 -3.47Q124.45 -5.04 124.71 -6.56Q124.96 -8.08 124.5 -9.58Q123.21 -10.04 121.54 -9.37Q119.86 -8.7 118.01 -7.34Q116.15 -5.97 114.17 -4.14Q112.19 -2.31 110.31 -0.43Q108.43 1.45 106.73 3.15Q105.03 4.85 103.66 5.96Q102.3 7.06 101.37 7.35Q100.44 7.63 100.13 6.7Q100.08 6.65 100.72 5.39Q101.37 4.13 102.32 2.22Q103.27 0.32 104.43 -1.9Q105.59 -4.12 106.62 -6.05Q107.65 -7.98 108.43 -9.32Q109.2 -10.66 109.4 -10.76Q110.49 -10.04 110.51 -9.19Q110.54 -8.34 110.23 -7.44Q109.92 -6.54 109.53 -5.61Q109.15 -4.68 109.4 -3.75Q110.23 -4.32 111.7 -5.33Q113.17 -6.33 114.89 -7.41Q116.62 -8.49 118.5 -9.52Q120.38 -10.56 122.03 -11.15Q123.68 -11.74 124.99 -11.79Q126.3 -11.84 126.92 -11.02Q127.54 -10.19 127.31 -8.31Q127.08 -6.43 125.68 -3.19Q125.53 -2.83 124.94 -1.46Q124.35 -0.1 123.65 1.47Q122.95 3.05 122.36 4.41Q121.77 5.78 121.61 6.14Q121.56 6.34 121.49 6.88Q121.41 7.43 121.31 8.07Q121.2 8.71 121 9.31Q120.79 9.9 120.48 10.21Q120.17 10.52 119.76 10.13Q119.35 9.74 119.3 9.64Z M151.03 9.02Q149.07 7.68 148.2 5.7Q147.32 3.72 146.91 1.45H146.34Q142.17 4.85 139.11 6.55Q136.04 8.25 133.93 8.64Q131.82 9.02 130.63 8.3Q129.45 7.58 129.11 6.21Q128.78 4.85 129.24 2.99Q129.7 1.14 130.84 -0.74Q131.97 -2.62 133.77 -4.32Q135.58 -6.02 137.92 -7.1Q140.26 -8.19 143.12 -8.47Q145.98 -8.75 149.28 -7.82L149.85 -8.44L156.8 -22.4Q158.19 -22.2 158.45 -21.17Q158.71 -20.14 158.43 -18.9Q158.14 -17.66 157.6 -16.51Q157.06 -15.35 156.8 -14.83Q156.65 -14.52 156.21 -13.65Q155.77 -12.77 155.18 -11.56Q154.59 -10.35 153.92 -9.01Q153.25 -7.67 152.66 -6.46Q152.06 -5.25 151.6 -4.35Q151.14 -3.45 151.03 -3.19Q150.11 -1.28 150.18 0.86Q150.26 2.99 150.41 4.95Q150.62 5.88 151.24 6.47Q151.86 7.06 152.55 7.55Q153.25 8.04 153.94 8.51Q154.64 8.97 155.1 9.64Q154.9 10.31 154.28 10.34Q153.66 10.36 152.99 10.1Q152.32 9.85 151.75 9.49Q151.19 9.13 151.03 9.02ZM131.82 6.7Q132.02 7.58 133.39 7.22Q134.75 6.86 136.61 5.7Q138.46 4.54 140.55 2.89Q142.63 1.24 144.31 -0.41Q145.98 -2.05 146.94 -3.45Q147.89 -4.84 147.53 -5.51Q145.93 -6.38 143.97 -6.38Q142.02 -6.38 140.08 -5.69Q138.15 -4.99 136.38 -3.73Q134.6 -2.47 133.39 -0.82Q132.18 0.83 131.69 2.76Q131.2 4.69 131.82 6.7Z"></path></g></svg><!----></div> <h1 class="s-d5Zigoma649a">Войти</h1> <!----><!----><div class="row2 server-card" style="margin: 14px 16px 0px; width: auto; border: 1px solid var(--line); background: var(--card); border-radius: 12px; padding: 12px 14px; white-space: pre-line;"><!----><!----><svg viewBox="0 0 24 24" aria-hidden="true" class="ic " style=""><use href="#i-cloud"></use></svg><!----> <div class="g"><div style="font-weight:600">Дом Ани<!----></div> <div class="sub">home.example.org
+Регистрация открыта</div><!----></div> <!----><span class="st ok"><svg viewBox="0 0 24 24" aria-hidden="true" class="ic " style=""><use href="#i-check"></use></svg><!----></span><!----><!----></div><!----> <div class="lab  " style="margin-top: 16px;"><!---->Почта<!----></div><!----> <input class="fld  act" type="email" autocomplete="email" aria-label="Почта" placeholder="anya@example.com" style=""><!----> <div class="hint " style="">Пришлём код для входа. Пароля нет.<!----></div><!----> <button type="button" class="btn  " style=""><!---->Получить код<!----></button><!----> <!----><div class="hint  ctr" style="margin-top: 30px;"><!----><button type="button" class="under " style=""><!---->Регистрация без приглашения<!----></button><!----></div><!----> <!----><div class="hint  ctr" style="margin-top: 18px;"><!----><button type="button" class="under " style=""><!---->У меня есть приглашение<!----></button><!----></div><!----></div></div></section></main>
 </body></html>

diff --git a/docs/plans/55-desktop-client.plan.md b/docs/plans/55-desktop-client.plan.md
@@ -78,6 +78,18 @@
 
 Добавлена только стрелка возврата к адресу сервера в оболочке. Рамка и размер окна те же, элементы входа — существующие `Logo`, `ServerRow`, `Label`, `Input`, `Hint`, `Button`, `TextButton`, `IconButton`. Сервер и почта в кадре — примеры; запросы на сервер и отправка писем в макете не выполняются. Проверены загрузка шрифтов, карточка и тип поля email.
 
+**Уточнение ПК2 по замечанию владельца, 2026-10-29 — на согласовании.** В карточку добавлен режим отдельной строкой после адреса: «Регистрация открыта», «Регистрация по приглашению» или «Регистрация закрыта». Предложенная зависимость ссылок:
+
+| Регистрация | «Регистрация без приглашения» | «У меня есть приглашение» | Вход существующего участника |
+|---|---|---|---|
+| Открыта | Есть | Есть | Есть |
+| По приглашению | Нет | Есть | Есть |
+| Закрыта | Нет | Нет | Есть |
+
+Это предложение для ПК2. В действующем клиенте скрывается только первая ссылка (если режим не open), ссылка приглашения показывается всегда. Сервер при closed отвергает приглашения (`auth.validateInvite`), поэтому скрытие этой ссылки на выбранном закрытом сервере — предлагаемое устранение тупика, ещё не правка продуктового кода. Приглашение на другой сервер можно ввести на ПК1. Режим задаёт администратор сервера; участник здесь его не меняет.
+
+В стенде проверены все три режима: количество ссылок — 2/1/0, поле почты есть во всех. Вариант стенда выбирается параметром `?mode=open|invite|closed`; этот параметр не является элементом интерфейса продукта. Снимок и статический HTML обновлены для открытого режима.
+
 ## Следующий шаг
 
 Согласовать ПК2 — вход на выбранный сервер. ПК1 утверждён. Затем — состояния недоступного сервера и первого запуска без сети, без перехода к продуктовому коду до утверждения кадров. Перед выпуском отдельно проверить перенос мышью из Проводника. Проверку настоящего входа Windows оставить отдельным ручным пунктом, не перезагружать и не завершать сессию ради пробы.
